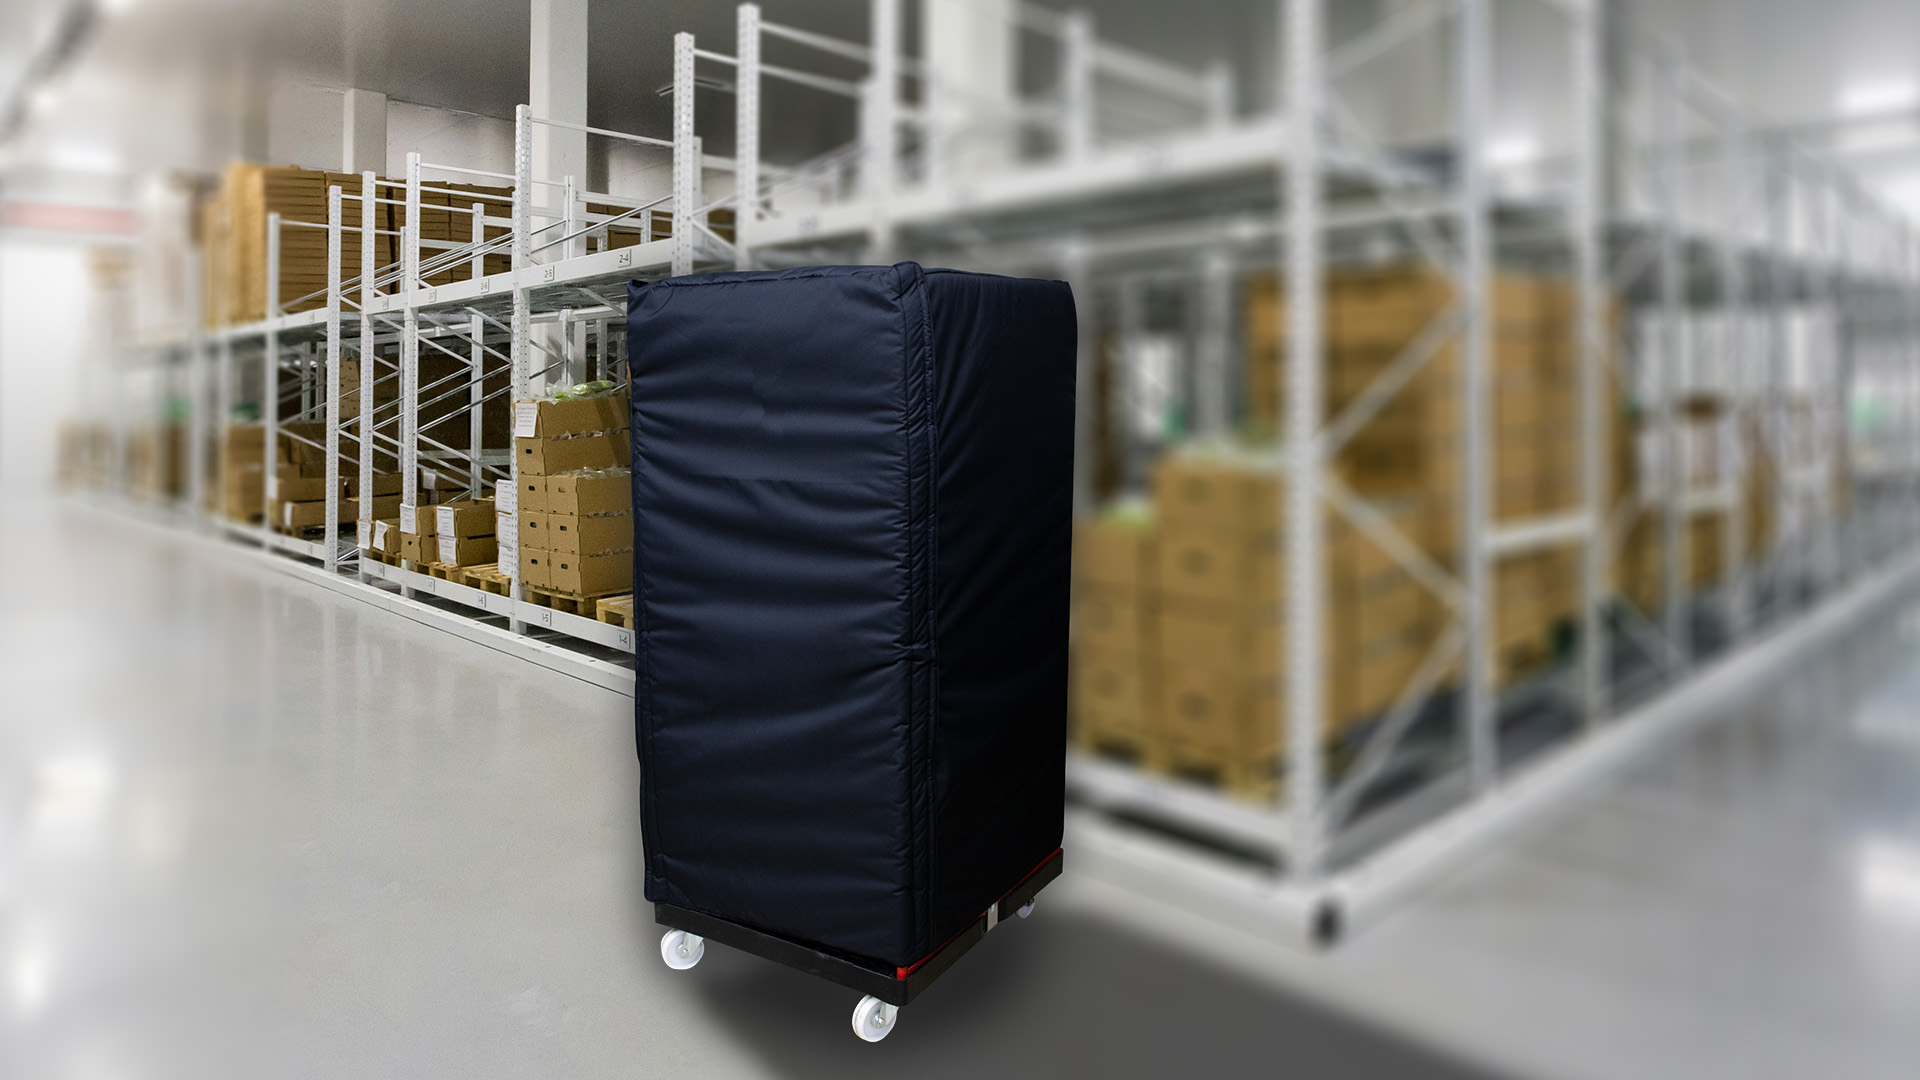
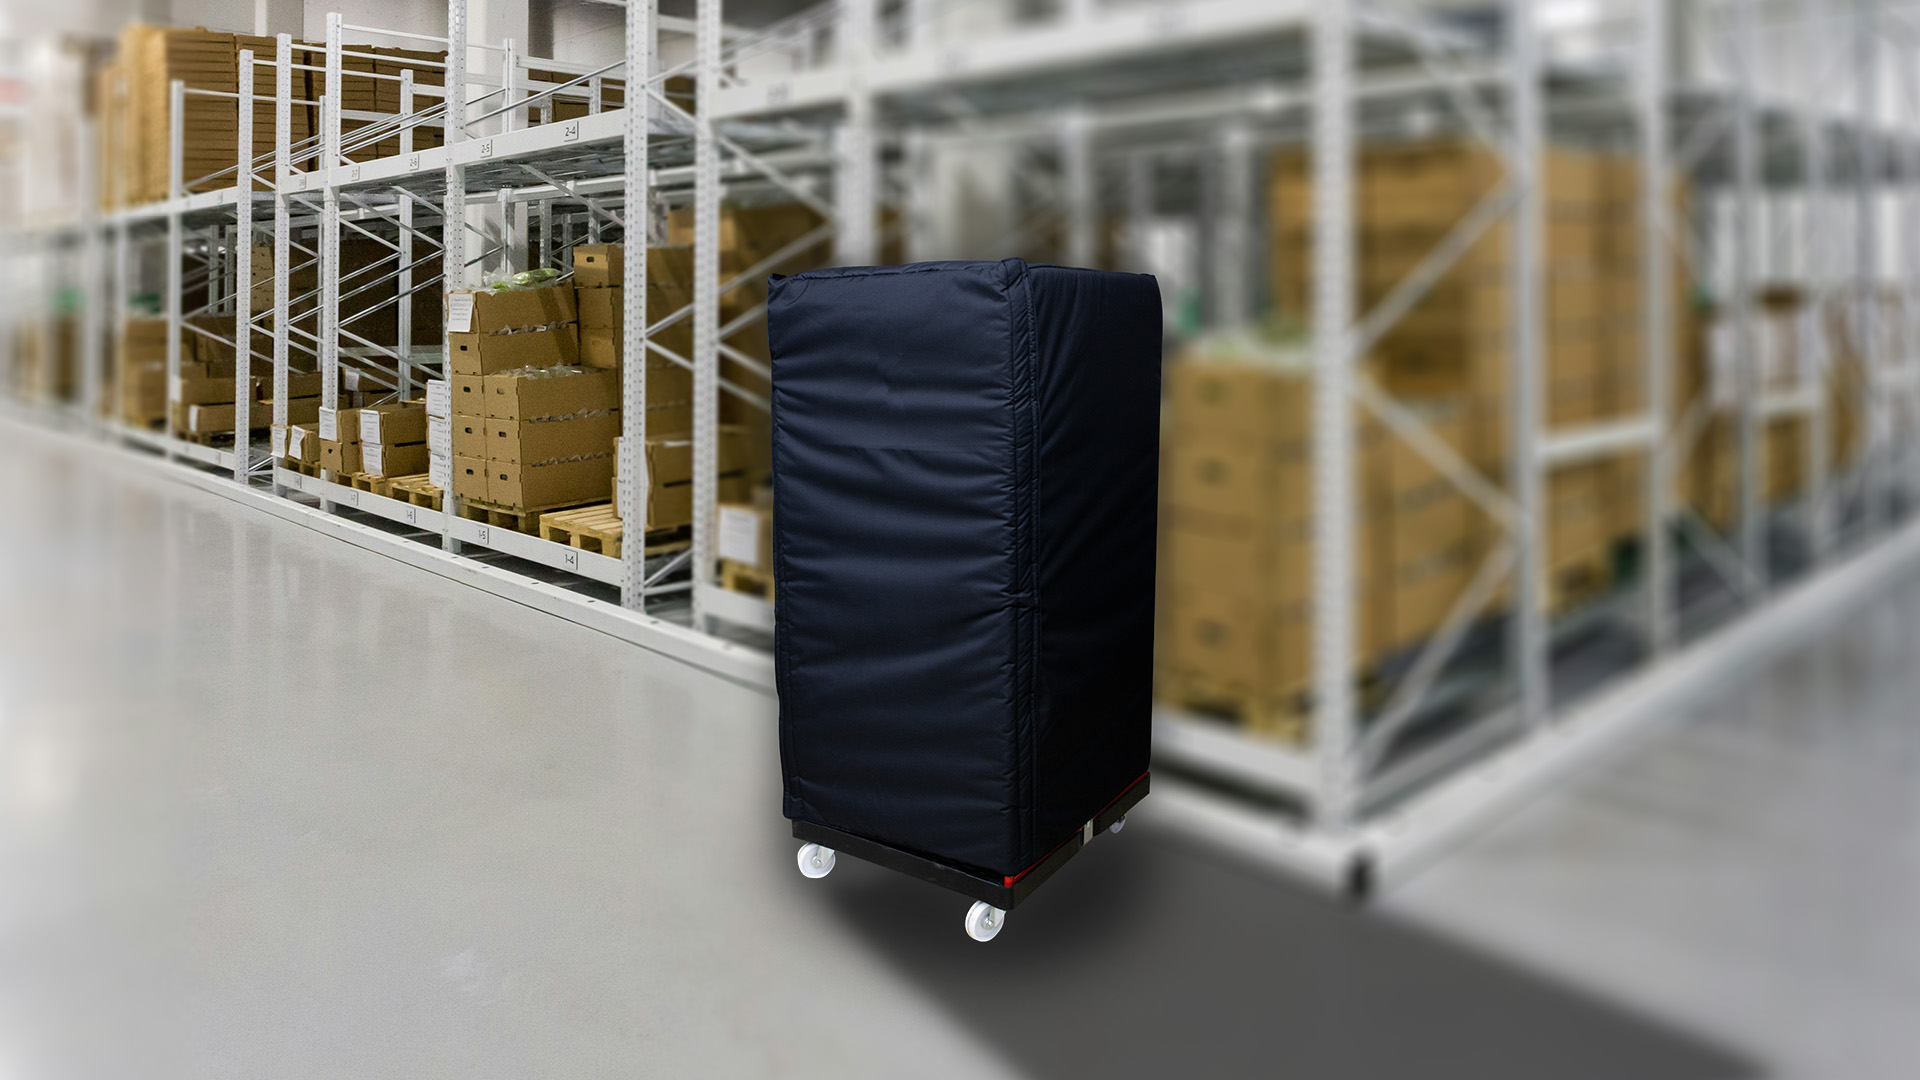
Produktseiten etwas angepasst und Bilder neu formatiert

diff --git a/src/styles/base.css b/src/styles/base.css
@@ -1,5 +1,5 @@
 :root {
-  --lightgray: #e4e4e4;
+  --lightgray: #dadada;
   --darkgray: rgb(51, 51, 51);
   --verydarkgray: #111111;
   --olive: #666146;
